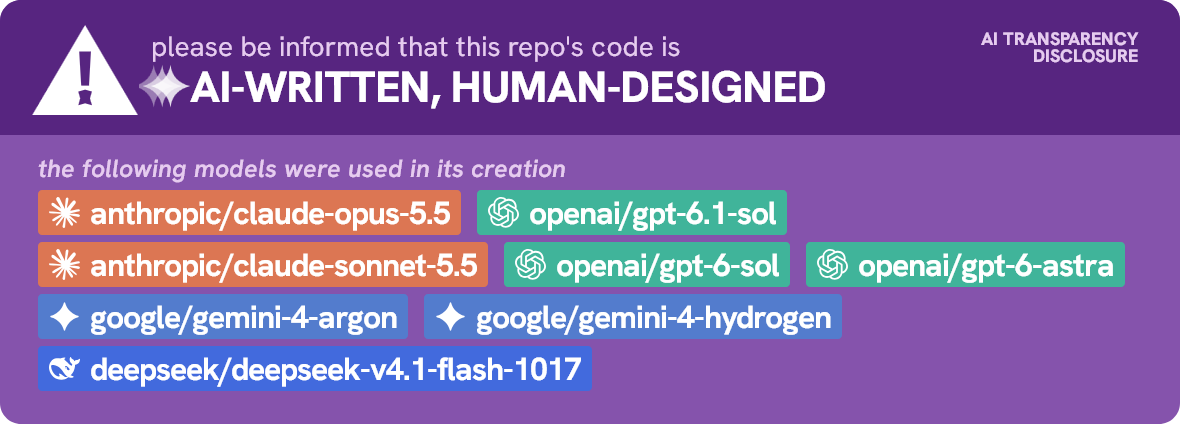
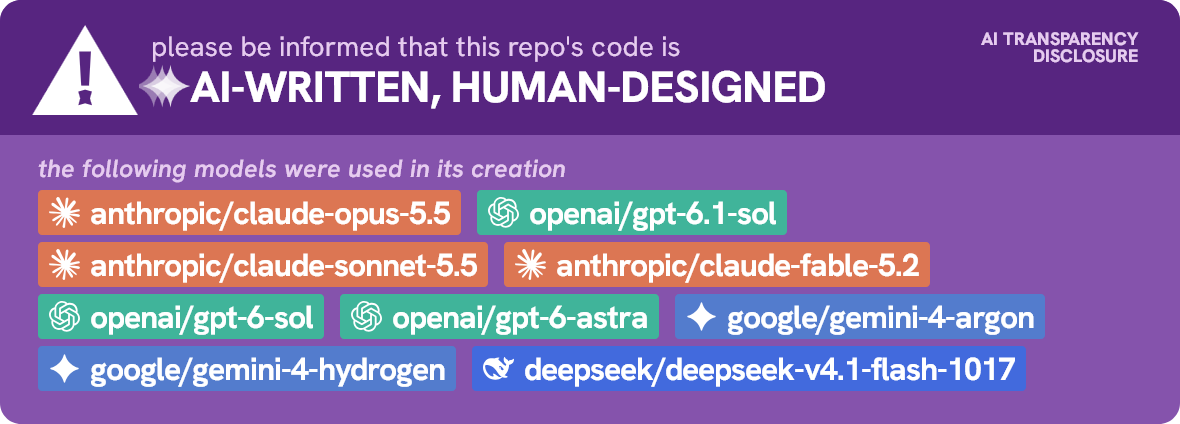
docs: disclosure card adds claude-fable-5.2; site's How it's made names every model family

Changed region(s): [[0.0305, 0.5519, 0.9763, 0.9198]]

diff --git a/site/index.html b/site/index.html
@@ -265,9 +265,9 @@ sudo ./install.sh</code></pre>
         <div>
           <p class="kicker">How it's made</p>
           <h2>Written by AI, directed by a person.</h2>
-          <p class="intro">Chorus's code was written by two AI models, Claude Opus 5.5 and GPT-6-sol, working in turns from a shared spec, with a human owner making the product decisions. Every decision, and every finding along the way, is in the repository.</p>
+          <p class="intro">Chorus's code was written by AI models from Anthropic, OpenAI, Google and DeepSeek, working from a shared spec, with a human owner making the product decisions. Every decision, and every finding along the way, is in the repository.</p>
         </div>
-        <img src="assets/ai-transparency-disclosure.png" alt="AI disclosure: repo code is AI-written, human-designed. Makes use of anthropic/claude-opus-5.5, openai/gpt-6.1-sol, anthropic/claude-sonnet-5.5, openai/gpt-6-sol, openai/gpt-6-astra, google/gemini-4-argon, google/gemini-4-hydrogen and deepseek/deepseek-v4.1-flash-1017." loading="lazy">
+        <img src="assets/ai-transparency-disclosure.png" alt="AI disclosure: repo code is AI-written, human-designed. Makes use of anthropic/claude-opus-5.5, openai/gpt-6.1-sol, anthropic/claude-sonnet-5.5, anthropic/claude-fable-5.2, openai/gpt-6-sol, openai/gpt-6-astra, google/gemini-4-argon, google/gemini-4-hydrogen and deepseek/deepseek-v4.1-flash-1017." loading="lazy">
       </div>
     </section>
   </main>

diff --git a/README.md b/README.md
@@ -1,4 +1,4 @@
-![AI Disclosure: Repo code is AI-written, human-designed. Makes use of anthropic/claude-opus-5.5, openai/gpt-6.1-sol, anthropic/claude-sonnet-5.5, openai/gpt-6-sol, openai/gpt-6-astra, google/gemini-4-argon, google/gemini-4-hydrogen and deepseek/deepseek-v4.1-flash-1017](assets/ai-transparency-disclosure.png)
+![AI Disclosure: Repo code is AI-written, human-designed. Makes use of anthropic/claude-opus-5.5, openai/gpt-6.1-sol, anthropic/claude-sonnet-5.5, anthropic/claude-fable-5.2, openai/gpt-6-sol, openai/gpt-6-astra, google/gemini-4-argon, google/gemini-4-hydrogen and deepseek/deepseek-v4.1-flash-1017](assets/ai-transparency-disclosure.png)
 
 # Chorus
 
